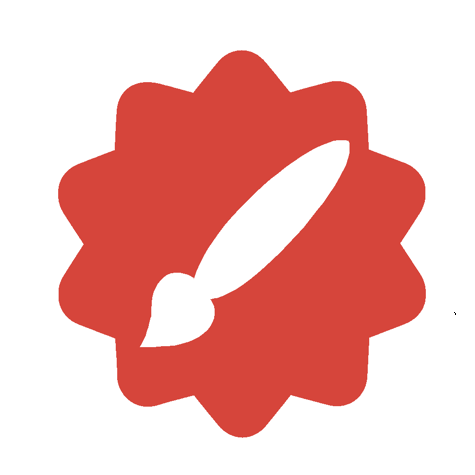
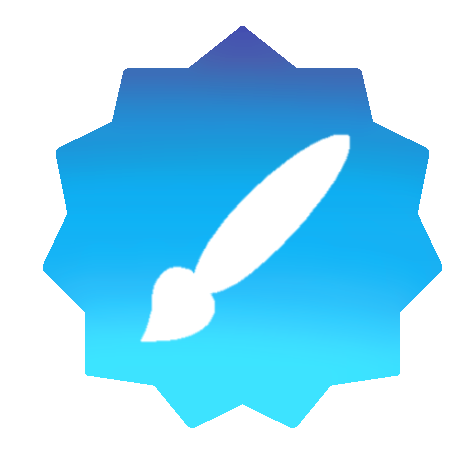
2.16

diff --git a/script.js b/script.js
@@ -3875,7 +3875,8 @@ window.openPlayerOptionsModal = async function () {
       'spr_role_4.png',
       'spr_role_5.png',
       'spr_role_6.png',
-      'spr_role_7.png'
+      'spr_role_7.png',
+      'spr_role_8.png'
     ];
 
     badgeFiles.forEach(filename => {
